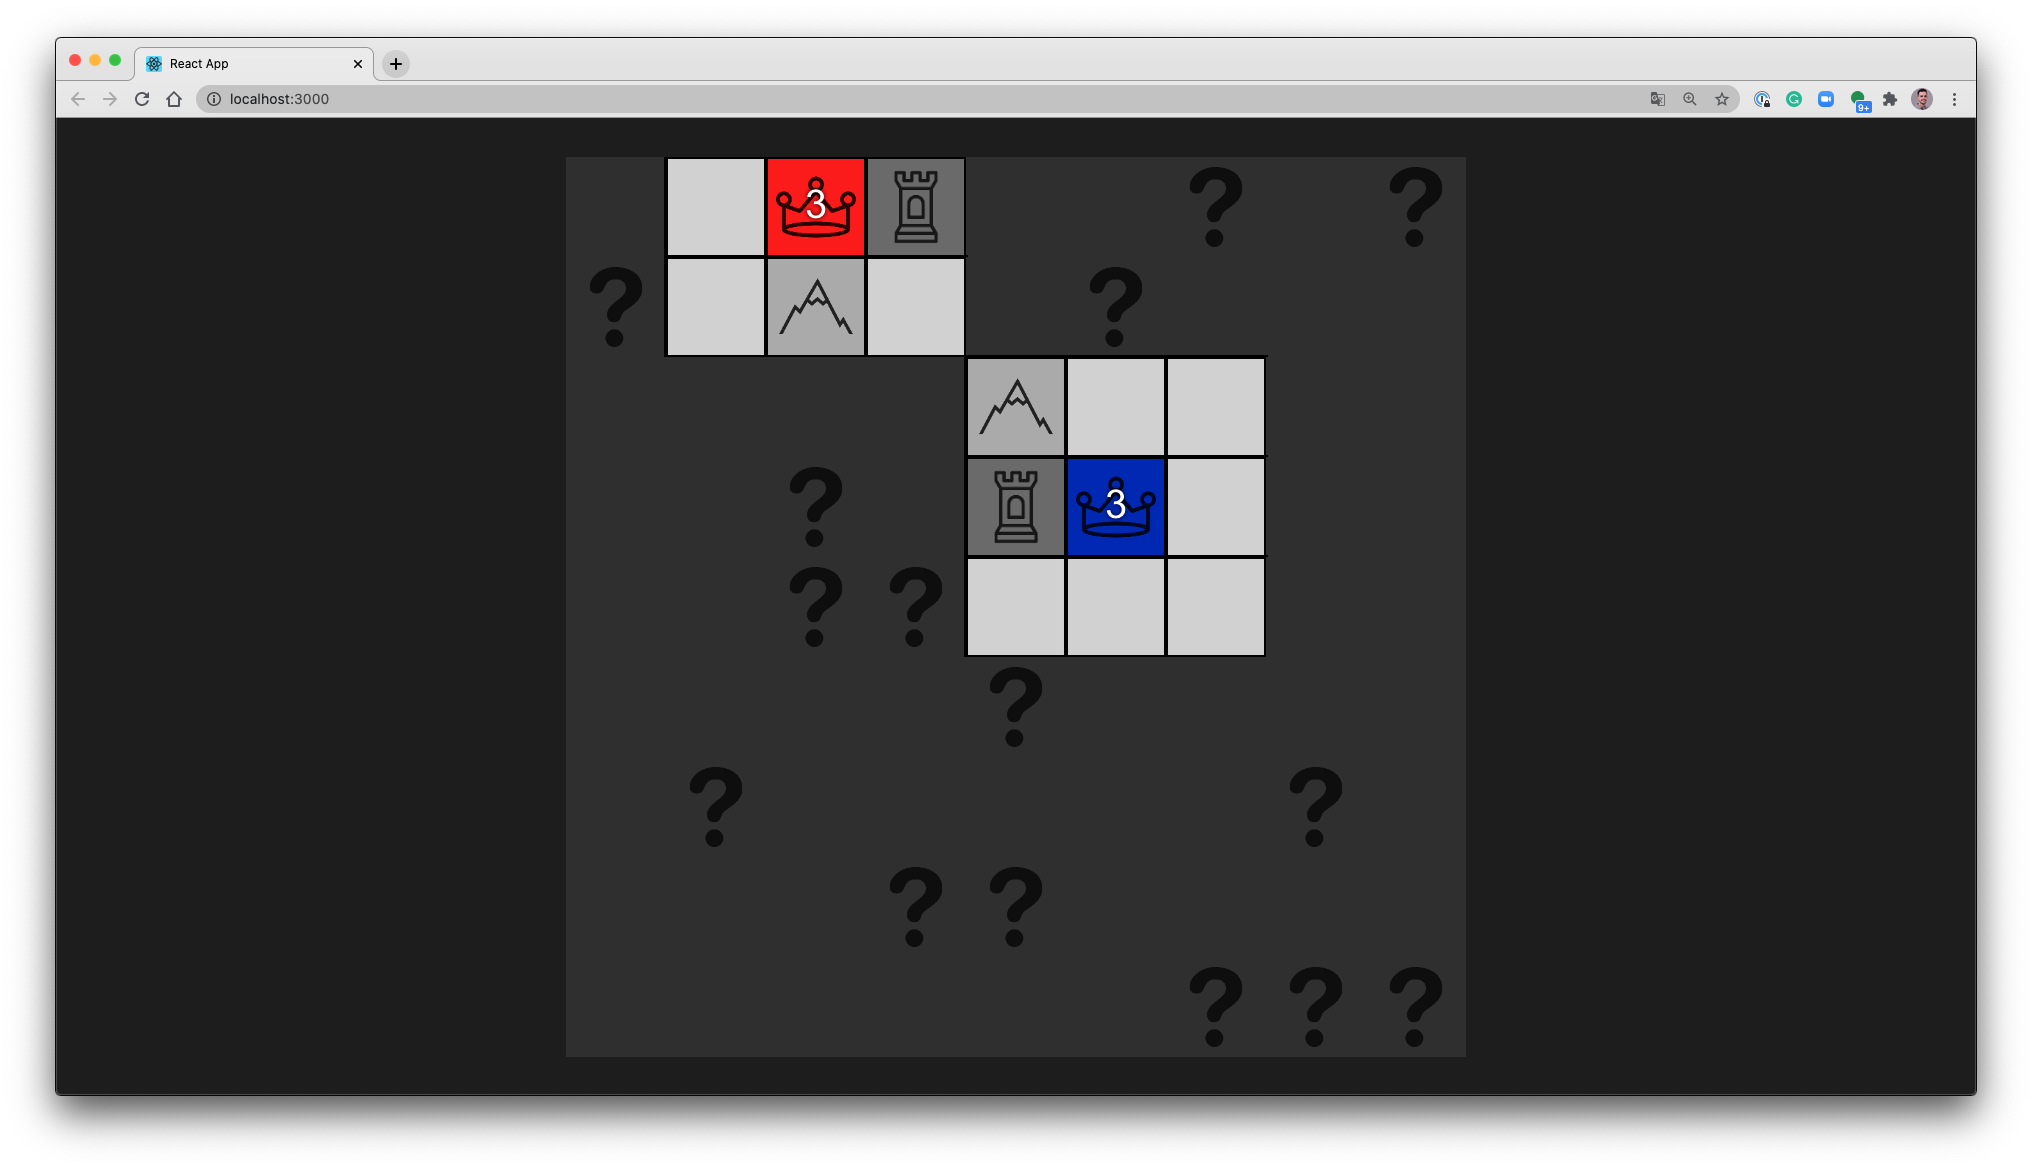
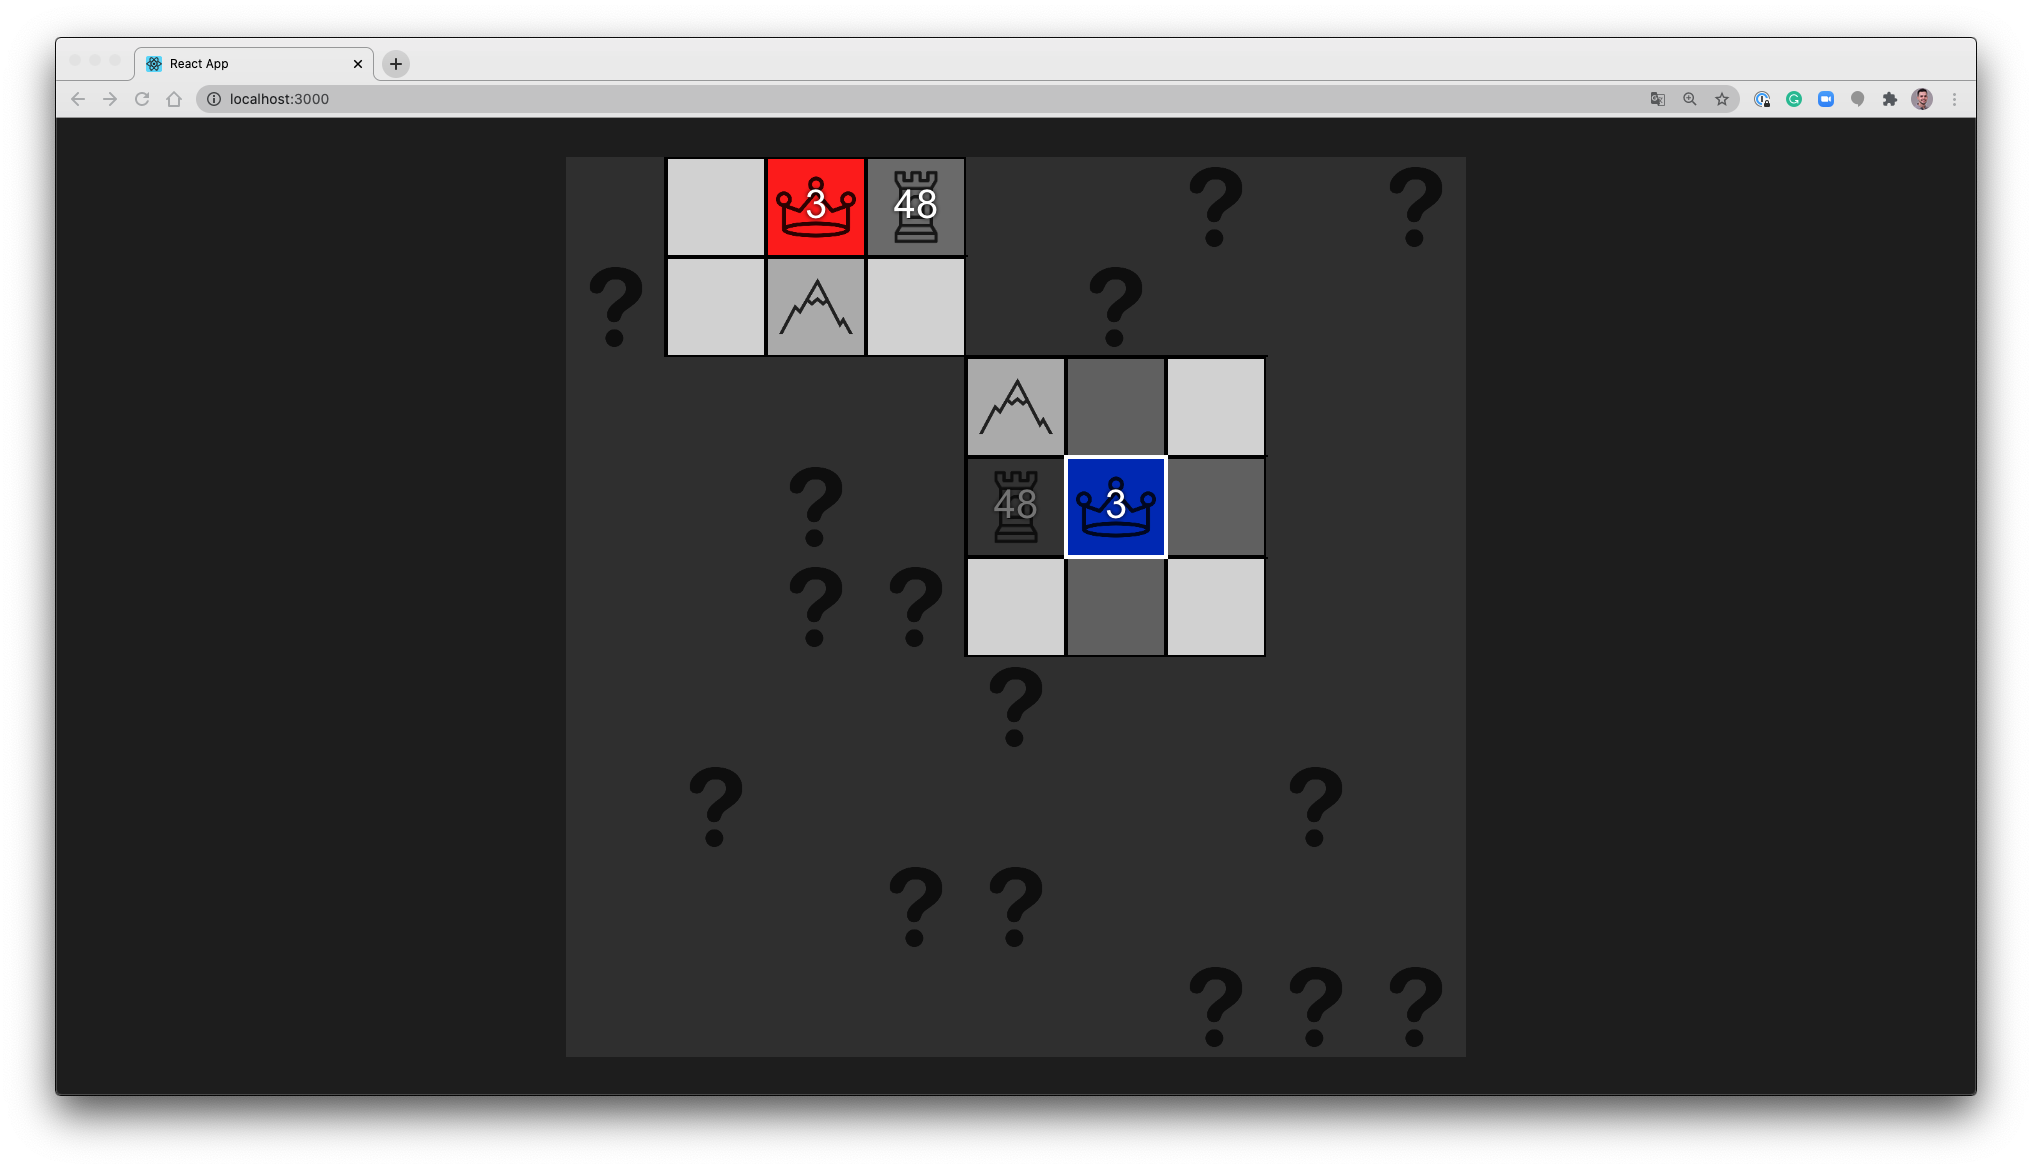
so next map positions are highlighted

diff --git a/src/hooks/use-possible-next-map-positions.js b/src/hooks/use-possible-next-map-positions.js
@@ -1,0 +1,109 @@
+import { useMemo } from "react";
+
+export default function usePossibleNextMapPositions({
+  map,
+  selectedMapPosition,
+}) {
+  const isMapSelected = useMemo(() => {
+    const { rowIndex, columnIndex } = selectedMapPosition;
+    return rowIndex !== null && columnIndex !== null;
+  }, [selectedMapPosition]);
+
+  const minMapRowIndex = useMemo(() => {
+    return 0;
+  }, []);
+
+  const maxMapRowIndex = useMemo(() => {
+    return map.length - 1;
+  }, [map]);
+
+  const minMapColumnIndex = useMemo(() => {
+    return 0;
+  }, []);
+
+  const maxMapColumnIndex = useMemo(() => {
+    const [tilesOfFirstRow] = map;
+    return tilesOfFirstRow.length - 1;
+  }, [map]);
+
+  const topMovePosition = useMemo(() => {
+    if (!isMapSelected) {
+      return;
+    }
+
+    const { rowIndex, columnIndex: topColumnIndex } = selectedMapPosition;
+    const topRowIndex = rowIndex - 1;
+
+    if (topRowIndex < minMapRowIndex) {
+      return;
+    }
+
+    return { rowIndex: topRowIndex, columnIndex: topColumnIndex };
+  }, [isMapSelected, selectedMapPosition, minMapRowIndex]);
+
+  const bottomMovePosition = useMemo(() => {
+    if (!isMapSelected) {
+      return;
+    }
+
+    const { rowIndex, columnIndex: bottomColumnIndex } = selectedMapPosition;
+    const bottomRowIndex = rowIndex + 1;
+
+    if (bottomRowIndex > maxMapRowIndex) {
+      return;
+    }
+
+    return {
+      rowIndex: bottomRowIndex,
+      columnIndex: bottomColumnIndex,
+    };
+  }, [isMapSelected, selectedMapPosition, maxMapRowIndex]);
+
+  const leftMovePosition = useMemo(() => {
+    if (!isMapSelected) {
+      return;
+    }
+
+    const { rowIndex: leftRowIndex, columnIndex } = selectedMapPosition;
+    const leftColumnIndex = columnIndex - 1;
+
+    if (leftColumnIndex < minMapColumnIndex) {
+      return;
+    }
+
+    return {
+      rowIndex: leftRowIndex,
+      columnIndex: leftColumnIndex,
+    };
+  }, [isMapSelected, selectedMapPosition, minMapColumnIndex]);
+
+  const rightMovePosition = useMemo(() => {
+    if (!isMapSelected) {
+      return;
+    }
+
+    const { rowIndex: rightRowIndex, columnIndex } = selectedMapPosition;
+    const rightColumnIndex = columnIndex + 1;
+
+    if (rightColumnIndex > maxMapColumnIndex) {
+      return;
+    }
+
+    return {
+      rowIndex: rightRowIndex,
+      columnIndex: rightColumnIndex,
+    };
+  }, [isMapSelected, selectedMapPosition, maxMapColumnIndex]);
+
+  const possibleNextMapPositions = useMemo(
+    () => ({
+      top: topMovePosition,
+      right: rightMovePosition,
+      bottom: bottomMovePosition,
+      left: leftMovePosition,
+    }),
+    [topMovePosition, rightMovePosition, bottomMovePosition, leftMovePosition]
+  );
+
+  return possibleNextMapPositions;
+}

diff --git a/src/hooks/use-map-tile-state.js b/src/hooks/use-map-tile-state.js
@@ -9,6 +9,7 @@ export default function useMapTileState({
   columnIndex,
   selectedMapPosition,
   onChangeSelectedMapPosition: triggerChangeSelectedMapPosition,
+  possibleNextMapPositions,
   notRevealedFill = "#363636",
   notOwnedArmyFill = "#D7D7D7",
   notOwnedSpawnerFill = "#757575",
@@ -27,6 +28,20 @@ export default function useMapTileState({
     isBlankType,
     isArmyType,
   } = tileState;
+
+  const isNextPossibleMove = useMemo(() => {
+    const isNextPossibleMapPosition = Object.values(
+      possibleNextMapPositions
+    ).some((maybeNextMapPosition) => {
+      return (
+        maybeNextMapPosition &&
+        maybeNextMapPosition.rowIndex === rowIndex &&
+        maybeNextMapPosition.columnIndex === columnIndex
+      );
+    });
+
+    return isNextPossibleMapPosition && !isBlankType;
+  }, [possibleNextMapPositions, rowIndex, columnIndex, isBlankType]);
 
   const player = useMemo(() => {
     if (isOwned) {
@@ -95,7 +110,9 @@ export default function useMapTileState({
     return getStageByEventTarget(eventTarget.getParent());
   }, []);
 
-  const canMove = isOwned;
+  const canMove = useMemo(() => {
+    return isOwned || isNextPossibleMove;
+  }, [isOwned, isNextPossibleMove]);
 
   const handleMouseEnter = useCallback(
     (event) => {
@@ -123,6 +140,8 @@ export default function useMapTileState({
     }
   }, [canMove, rowIndex, columnIndex, triggerChangeSelectedMapPosition]);
 
+  const isHighlight = isNextPossibleMove;
+
   return {
     image: typeImage,
     text: unitiesCount,
@@ -131,5 +150,6 @@ export default function useMapTileState({
     onMouseEnter: handleMouseEnter,
     onMouseLeave: handleMouseLeave,
     onClick: handleClick,
+    highlight: isHighlight,
   };
 }

diff --git a/src/components/MapTileState/MapTileState.component.js b/src/components/MapTileState/MapTileState.component.js
@@ -2,7 +2,7 @@ import React from "react";
 import PropTypes from "prop-types";
 import { MapTile } from "components";
 import { useMapTileState } from "hooks";
-import { playersPropTypes, tilePropTypes } from "types";
+import { playersPropTypes, tilePropTypes, mapPositionPropTypes } from "types";
 
 function MapTileState(props) {
   const {
@@ -12,6 +12,7 @@ function MapTileState(props) {
     columnIndex,
     selectedMapPosition,
     onChangeSelectedMapPosition: handleChangeSelectedMapPosition,
+    possibleNextMapPositions,
     ...restProps
   } = props;
 
@@ -22,6 +23,7 @@ function MapTileState(props) {
     columnIndex,
     selectedMapPosition,
     onChangeSelectedMapPosition: handleChangeSelectedMapPosition,
+    possibleNextMapPositions,
   });
 
   return (
@@ -39,11 +41,14 @@ MapTileState.propTypes = {
   players: playersPropTypes,
   rowIndex: PropTypes.number.isRequired,
   columnIndex: PropTypes.number.isRequired,
-  selectedMapPosition: PropTypes.shape({
-    rowIndex: PropTypes.number,
-    columnIndex: PropTypes.number,
-  }).isRequired,
+  selectedMapPosition: mapPositionPropTypes.isRequired,
   onChangeSelectedMapPosition: PropTypes.func.isRequired,
+  possibleNextMapPositions: PropTypes.shape({
+    top: mapPositionPropTypes,
+    right: mapPositionPropTypes,
+    bottom: mapPositionPropTypes,
+    left: mapPositionPropTypes,
+  }).isRequired,
 };
 
 export default MapTileState;

diff --git a/src/components/Map/Map.component.js b/src/components/Map/Map.component.js
@@ -3,7 +3,7 @@ import PropTypes from "prop-types";
 import classNames from "classnames";
 import { Layer, Stage } from "react-konva";
 import { playersPropTypes, mapPropTypes } from "types";
-import { useSortedMapWithPosition } from "hooks";
+import { usePossibleNextMapPositions, useSortedMapWithPosition } from "hooks";
 import { MapTileState } from "components";
 import "./Map.css";
 
@@ -35,6 +35,11 @@ function Map(props) {
     columnIndex: null,
   });
 
+  const possibleNextMapPositions = usePossibleNextMapPositions({
+    map,
+    selectedMapPosition,
+  });
+
   const sortedMapWithPosition = useSortedMapWithPosition({
     map,
     selectedMapPosition,
@@ -60,6 +65,7 @@ function Map(props) {
                 players={players}
                 selectedMapPosition={selectedMapPosition}
                 onChangeSelectedMapPosition={setSelectedMapPosition}
+                possibleNextMapPositions={possibleNextMapPositions}
               />
             );
           });

diff --git a/src/hooks/index.js b/src/hooks/index.js
@@ -1,5 +1,6 @@
 import useIsValidHexColor from "./use-is-valid-hex-color";
 import useIsValidPositiveInteger from "./use-is-valid-positive-integer";
+import usePossibleNextMapPositions from "./use-possible-next-map-positions";
 import useMapTileState from "./use-map-tile-state";
 import usePlayerState from "./use-player-state";
 import usePlayerStateValidation from "./use-player-state-validation";
@@ -11,6 +12,7 @@ import useTileStateValidation from "./use-tile-state-validation";
 export {
   useIsValidHexColor,
   useIsValidPositiveInteger,
+  usePossibleNextMapPositions,
   useMapTileState,
   usePlayerState,
   usePlayerStateValidation,

diff --git a/src/components/MapTile/MapTile.component.js b/src/components/MapTile/MapTile.component.js
@@ -15,6 +15,7 @@ function MapTile(props) {
     rowIndex,
     columnIndex,
     onChangeSize: triggerChangeSize,
+    highlight: isHighlight,
     ...restProps
   } = props;
 
@@ -83,6 +84,7 @@ function MapTile(props) {
           {...widthAndHeight}
         />
       )}
+      {isHighlight && <Rect fill="#000" {...widthAndHeight} opacity={0.5} />}
     </Group>
   );
 }
@@ -99,6 +101,7 @@ MapTile.propTypes = {
   rowIndex: PropTypes.number.isRequired,
   columnIndex: PropTypes.number.isRequired,
   onChangeSize: PropTypes.func,
+  highlight: PropTypes.bool,
 };
 
 MapTile.defaultProps = {

diff --git a/src/static-demo-game-state.js b/src/static-demo-game-state.js
@@ -15,7 +15,7 @@ const map = [
     [ARMY, false, null, null],
     [ARMY, true, null, null],
     [BASE, true, 1, 3],
-    [SPAWNER, true, null, null],
+    [SPAWNER, true, null, 48],
     [ARMY, false, null, null],
     [ARMY, false, null, null],
     [FOG, false, null, null],
@@ -49,7 +49,7 @@ const map = [
     [ARMY, false, null, null],
     [FOG, false, null, null],
     [ARMY, false, null, null],
-    [SPAWNER, true, null, null],
+    [SPAWNER, true, null, 48],
     [BASE, true, 2, 3],
     [ARMY, true, null, null],
     [ARMY, false, null, null],

diff --git a/src/types.js b/src/types.js
@@ -8,6 +8,10 @@ const tilePropTypes = PropTypes.arrayOf(
 );
 const tilesPropTypes = PropTypes.arrayOf(tilePropTypes);
 const mapPropTypes = PropTypes.arrayOf(tilesPropTypes);
+const mapPositionPropTypes = PropTypes.shape({
+  rowIndex: PropTypes.number,
+  columnIndex: PropTypes.number,
+});
 
 export {
   turnsCountPropTypes,
@@ -16,4 +20,5 @@ export {
   tilePropTypes,
   tilesPropTypes,
   mapPropTypes,
+  mapPositionPropTypes,
 };

diff --git a/README.md b/README.md
@@ -14,27 +14,34 @@ This project is meant to clone the game generals.io using React in live on [twit
 3. Run using `yarn start` or `npm start`
 
 ## Roadmap
-- To create the board game UI
-- To create business rules of the game
-- To create the match making
-- To create extra functionalities
-    - Keyboard shortcuts
-    - Replay
-    - Chat
+- [ ] Support enqueing moves
+- [ ] Render turns count
+- [ ] Render players state
+- [ ] Render alert of Win message
+- [ ] Render room page
+- [ ] Render welcome page
+- [ ] Server
 
 ## Episodes
 
-### Ep. 1
+### Ep. 1 (06/22/20)
 // TODO: Add description
 
-### Ep. 2
+### Ep. 2 (06/29/20)
 // TODO: Add description
 
-### Ep. 3
+### Ep. 3 (07/06/20)
 // TODO: Add description
 
-### Ep. 4
+### Ep. 4 (07/13/20)
 - Map tile looks closer to the original application
 - Static demo game state looks closer like a real game
 - Map tile supports revealed/unrevealed state
 - Map tile supports hovering by cursor style set as pointer
+
+### Ep. 5 (07/20/20)
+- Added unities count to the spawner tiles (in the static game data)
+- Map tile can be selected
+- Possible next map positions are highlighted
+
+### Ep. 6 (07/27/20)
